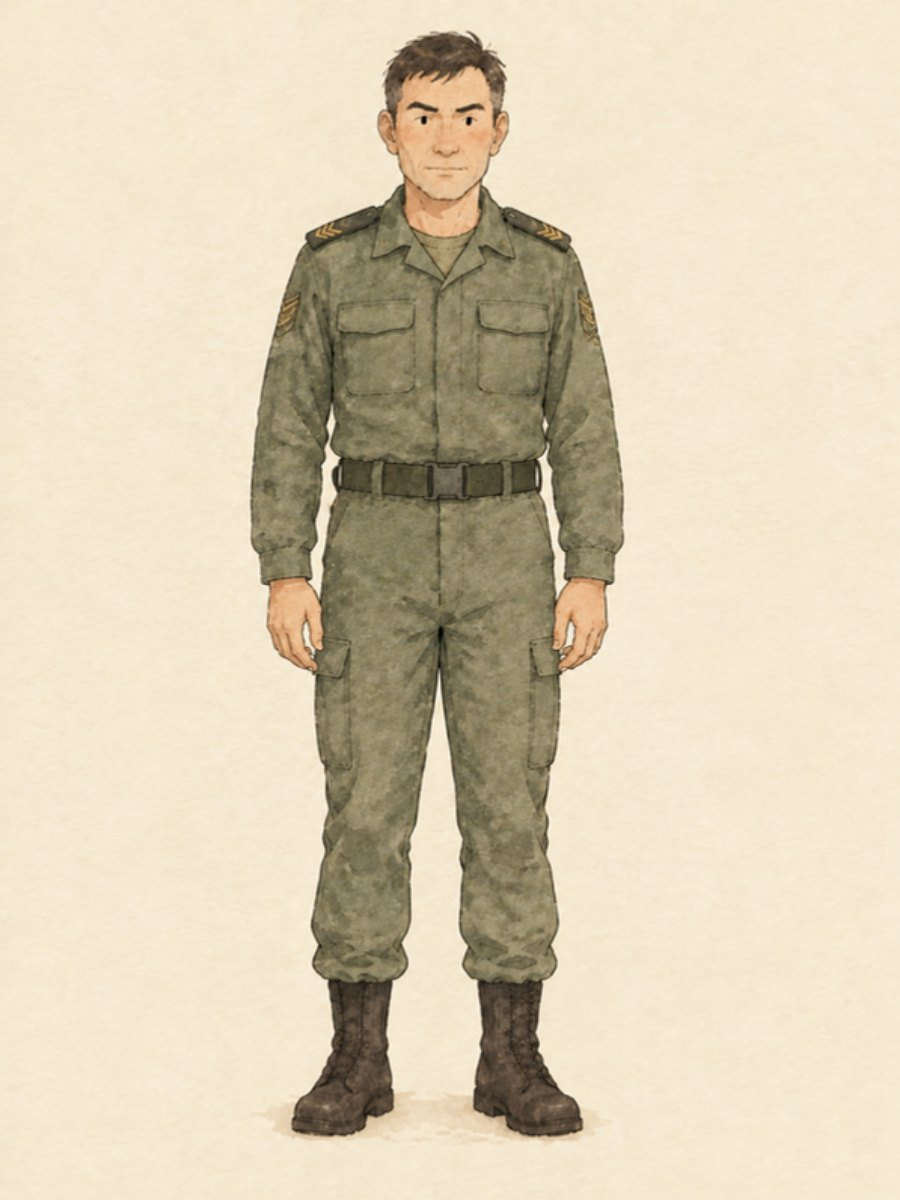
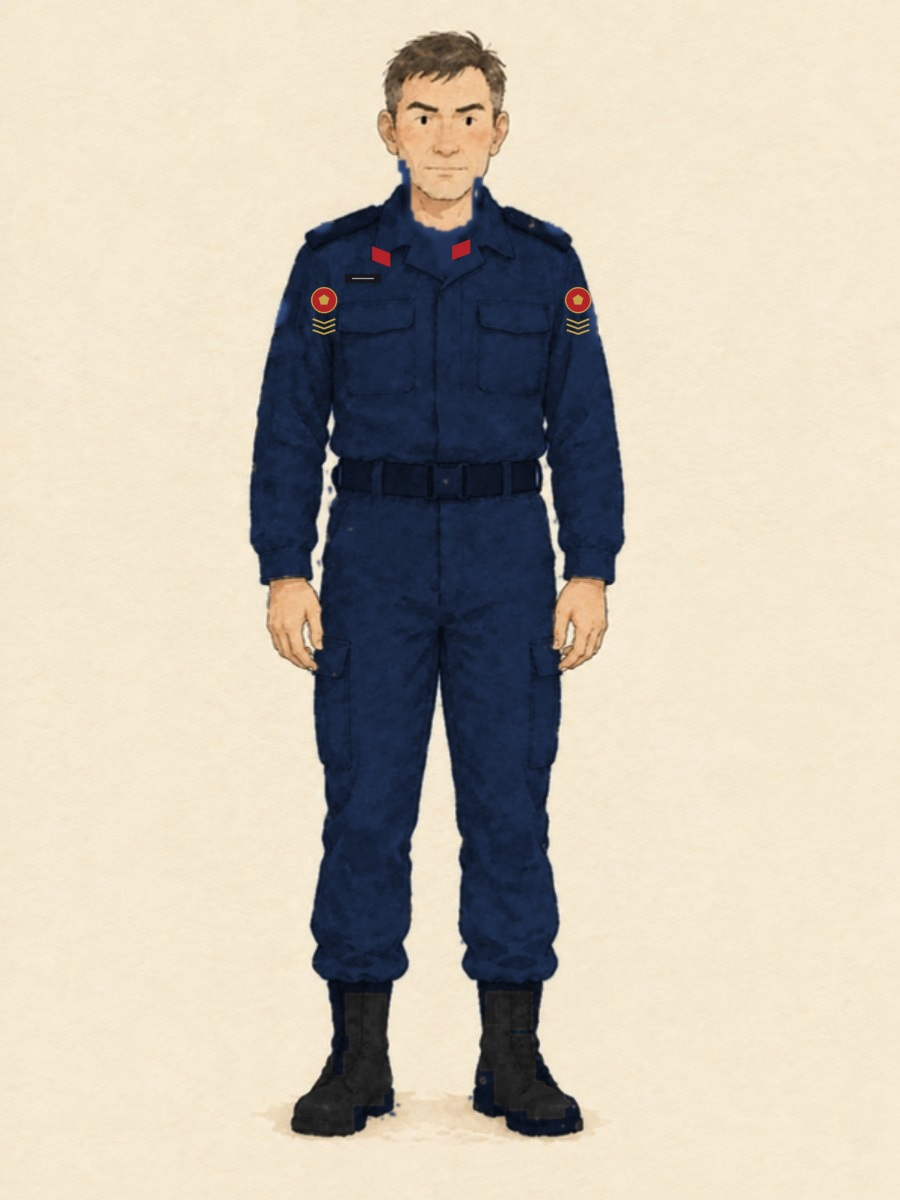
Viki: Çağrı Babacan jandarma kıyafetiyle (lacivert, kırmızı yaka, kol arması ve rütbe); Babacan Ailesi yenilendi
Claude-Session: https://claude.ai/code/session_01CqmBomUoj7kxT4HXbmEom1

Changed region(s): [[0.2489, 0.1233, 0.7156, 0.9558]]

diff --git a/src/lib/yolHaritasi.ts b/src/lib/yolHaritasi.ts
@@ -358,7 +358,7 @@ export const YOL_HARITASI: YolIsi[] = [
   { id: 'viki-gorsel-sayisi', paket: 'K', kimde: 'claude', nereden: '14 Kasım · Kemal', bitti: true,
     ad: 'Vikiyi ajansa gönder: her maddenin görsel sayısı ve KKM\'deki görsel adresleri de gider (ajans görseli olmayan maddelere görsel bulsun)' },
   { id: 'viki-gorselsiz-maddeler', paket: 'K', kimde: 'claude', nereden: '14 Kasım · Kemal', bitti: true,
-    ad: 'Görseli olmayan viki maddelerine görsel: dört aileye üyelerinin bir arada çizimi (Alimyeri Ailesi gibi), Dirlik ve Sürek Kulübü logoları, Yağ Fabrikası 3B; Çağrı Babacan\'ın portresi ve boy çizimi bıyıksız (Kemal, 14 Kasım)' },
+    ad: 'Görseli olmayan viki maddelerine görsel: dört aileye üyelerinin bir arada çizimi (Alimyeri Ailesi gibi), Dirlik ve Sürek Kulübü logoları, Yağ Fabrikası 3B; Çağrı Babacan\'ın üç çizimi bıyıksız ve jandarma kıyafetiyle: koyu lacivert, kırmızı yaka işareti, kollarda arma ve rütbe (Kemal, 14 Kasım)' },
   // sırası belli değil
   { id: 'teknik-foy', uzak: true, paket: 'M', ad: 'Ürünlere teknik föy (tech pack): ölçü tablosu, malzeme, renk, etiket', nereden: '1 Ekim', kimde: 'kemal', not: 'Kemal isterse; 3B stüdyo kaldırıldı (1 Ekim gece).' },
   { id: 'merch-kisa-liste', paket: 'K', kimde: 'claude', nereden: '3 Kasım · Kemal', bitti: true,
